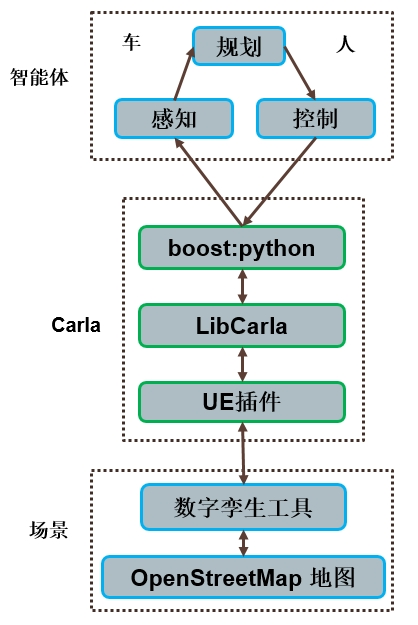
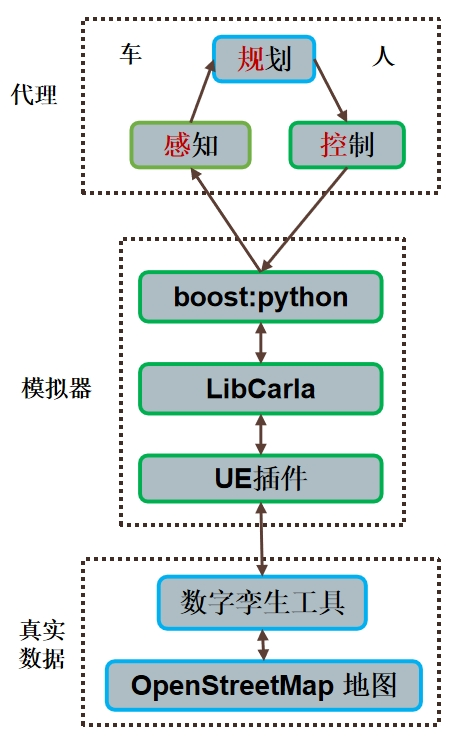
同步描述和图片内容

Changed region(s): [[0.0311, 0.0, 0.9641, 1.0], [0.0311, 0.76, 0.1866, 0.9728], [0.8086, 0.0608, 0.8397, 0.0912]]

diff --git a/README.md b/README.md
@@ -3,42 +3,20 @@
 <!-- 使用markmap进行编辑并生成svg：https://markmap.js.org/repl -->
 
 
-## 交通
-
-### [智慧交通](https://github.com/OpenHUTB/intelligent_traffic) 
-智慧交通微观、中观、宏观仿真和平台后端。
-
-### [交通数字孪生](https://github.com/OpenHUTB/driving)
-包括交通场景数字孪生、区域信控、车流诱导、停车管理等模块。
-
-
-### 仿真
-
-#### [工业仿真](https://github.com/OpenHUTB/matlab) 
-工业仿真软件的注释和二次开发。
-
-#### [仿真引擎](https://github.com/OpenHUTB/engine)
-包含 CARLA 补丁的虚幻引擎。
-
-#### [驾驶仿真](https://github.com/OpenHUTB/carla)
-用于研究自动驾驶的开源仿真器，可自由使用的开放数字资产（城市布局、建筑、车辆）。
-
-#### [静态仿真](https://github.com/OpenHUTB/roadrunner) 
-RoadRunner 的中文翻译文档。
-
-#### [动态仿真](https://github.com/OpenHUTB/roadrunner-scenario) 
-RoadRunner Scenario 的中文翻译文档。
-
-### [神经驾驶](https://github.com/OpenHUTB/neuro_driving) 
-基于神经解剖对齐理念的统一自动驾驶算法框架。
-
 ## 代理
 
-### [交通大模型](https://github.com/OpenHUTB/gpt)
-实现人类语音进行交通场景的编辑和控制。
+### 通用
 
+#### [原理](https://github.com/OpenHUTB/neuro)
+《神经科学原理（第六版）》翻译。
+
+#### [工具](https://github.com/OpenHUTB/spm)
+神经影像处理软件。
 
 ### 感知
+
+#### [目标解码](https://github.com/OpenHUTB/object_decoding)
+通用和精细目标类别的神经解码。
 
 #### [行为检测](https://github.com/OpenHUTB/customs) 
 人脸识别、戴口罩的人脸识别、高抗伪识别等。
@@ -47,58 +25,73 @@ RoadRunner Scenario 的中文翻译文档。
 #### [目标跟踪](https://github.com/OpenHUTB/mot)
 实现多目标跟踪算法研究和系统部署。
 
-
-## 神经
-
-### 学习
-
-#### [原理](https://github.com/OpenHUTB/neuro)
-《神经科学原理（第六版）》翻译。
-
+### 规划
 
 #### [前额叶](https://github.com/OpenHUTB/bazaar)
 《前额叶皮层的神经生物学》翻译。
 
+### 控制
 
-#### [影像处理](https://github.com/OpenHUTB/spm)
-神经影响处理软件。
+#### [车辆](https://github.com/OpenHUTB/traffic_twin) 
+车辆的孪生。
 
+#### [行人](https://github.com/OpenHUTB/carla-pedestrians)
+行人的孪生。
 
-### 工作
+### 结构
 
-#### [目标解码](https://github.com/OpenHUTB/object_decoding)
-通用和精细目标类别的神经解码。
-
-#### [结构](https://github.com/OpenHUTB/structure)
+#### [几何](https://github.com/OpenHUTB/structure)
 几何和功能的关系。
 
-#### [洋葱](https://github.com/OpenHUTB/onion)
+#### [功能](https://github.com/OpenHUTB/onion)
 结构和功能的关系。
 
 
+## 仿真引擎
+
+### [文档](https://github.com/OpenHUTB/carla_doc) 
+
+### [C++文档](https://github.com/OpenHUTB/carla_cpp)
+
+### [驾驶仿真](https://github.com/OpenHUTB/carla)
+用于研究自动驾驶的开源仿真器，可自由使用的开放数字资产（城市布局、建筑、车辆）。
+
+### [仿真引擎](https://github.com/OpenHUTB/engine)
+包含 CARLA 补丁的虚幻引擎。
+
+### [工业仿真](https://github.com/OpenHUTB/matlab) 
+工业仿真软件的注释和二次开发。
+
+### [静态仿真](https://github.com/OpenHUTB/roadrunner) 
+RoadRunner 的中文翻译文档。
+
+### [动态仿真](https://github.com/OpenHUTB/roadrunner-scenario) 
+RoadRunner Scenario 的中文翻译文档。
+
+
+## 真实数据
+
+### [智慧交通](https://github.com/OpenHUTB/intelligent_traffic) 
+智慧交通微观、中观、宏观仿真和平台后端。
+
+### [交通数字孪生](https://github.com/OpenHUTB/driving)
+包括交通场景数字孪生、区域信控、车流诱导、停车管理等模块。
+
+### [交通大模型](https://github.com/OpenHUTB/gpt)
+实现人类语音进行交通场景的编辑和控制。
+
 ## 合作
 
-### 排版
-
-#### [本科毕设](https://github.com/OpenHUTB/hutb_latex) 
+### [本科毕设](https://github.com/OpenHUTB/hutb_latex) 
 本科毕业设计的`latex`模板。
 
-#### [研究生毕设](https://github.com/OpenHUTB/master)
+### [研究生毕设](https://github.com/OpenHUTB/master)
 研究生毕业设计的`latex`模板。
 
-#### [通用模板](https://github.com/OpenHUTB/latex)
+### [通用模板](https://github.com/OpenHUTB/latex)
 书籍、笔记、论文的`latex`模板。
 
-
-### 交流
-
-#### [机器人](https://github.com/OpenHUTB/robot_2022)
-机器人专业学习。
-
-#### [笔记](https://github.com/OpenHUTB/note)
-相关内容笔记。
-
-#### [工具库](https://github.com/OpenHUTB/utils)
+### [工具库](https://github.com/OpenHUTB/utils)
 整理的通用工具代码。
 
 
